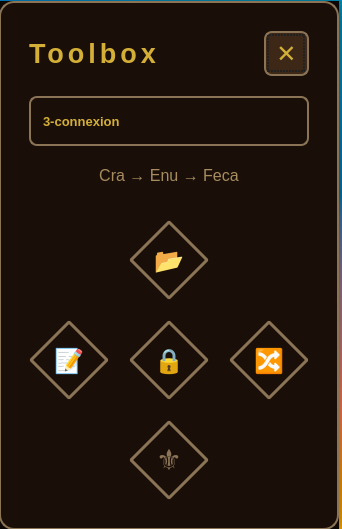
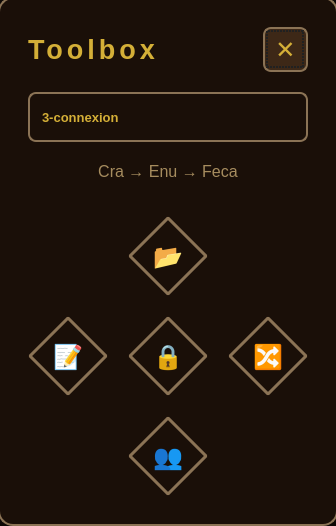
[UPD] readme

diff --git a/readme.md b/readme.md
@@ -55,7 +55,7 @@ python3 dofus_control_gui.py
 - **✎ Renommer**: Renomme les fenêtres selon le profil actif et mute les autres
 - **🔒 Lock**: Active/désactive le verrouillage au premier plan
 - **↻ Réorganiser**: Réorganise les fenêtres entre espaces de travail
-- **⚜ Inviter**: Lance la macro d'invites groupe
+- **👥 Inviter**: Lance la macro d'invites groupe
 
 ### Format du Profil
 
